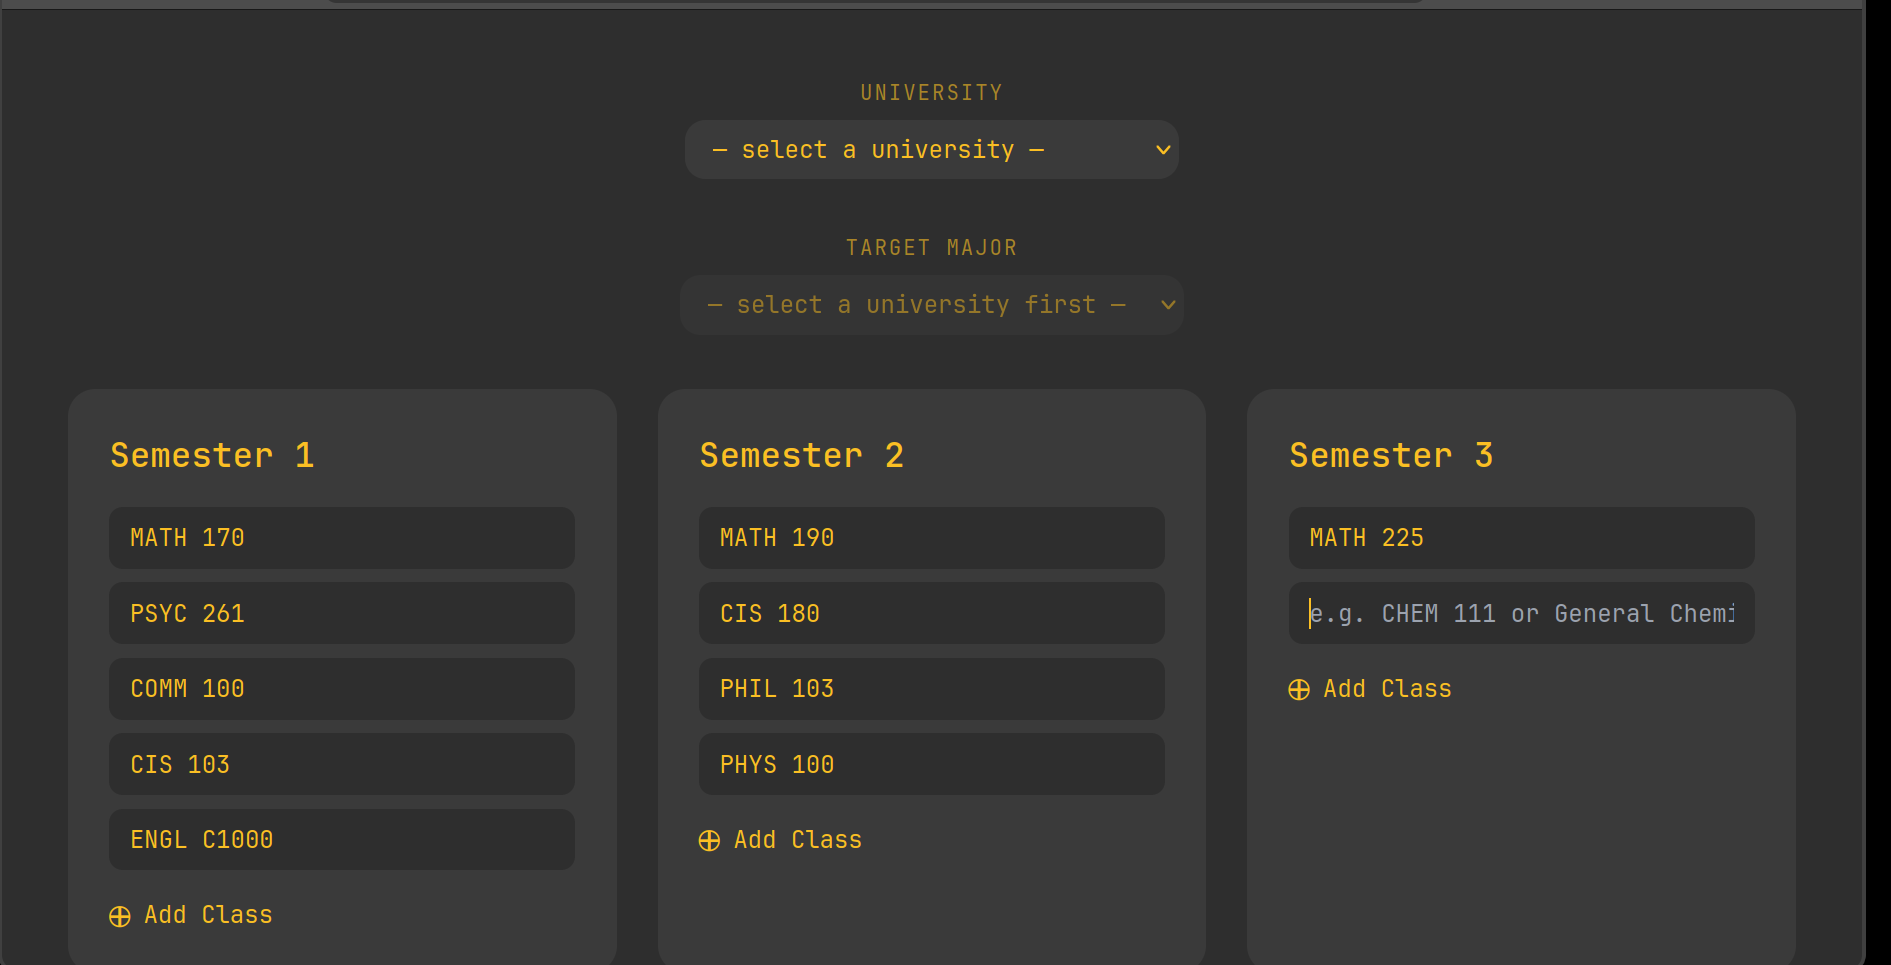
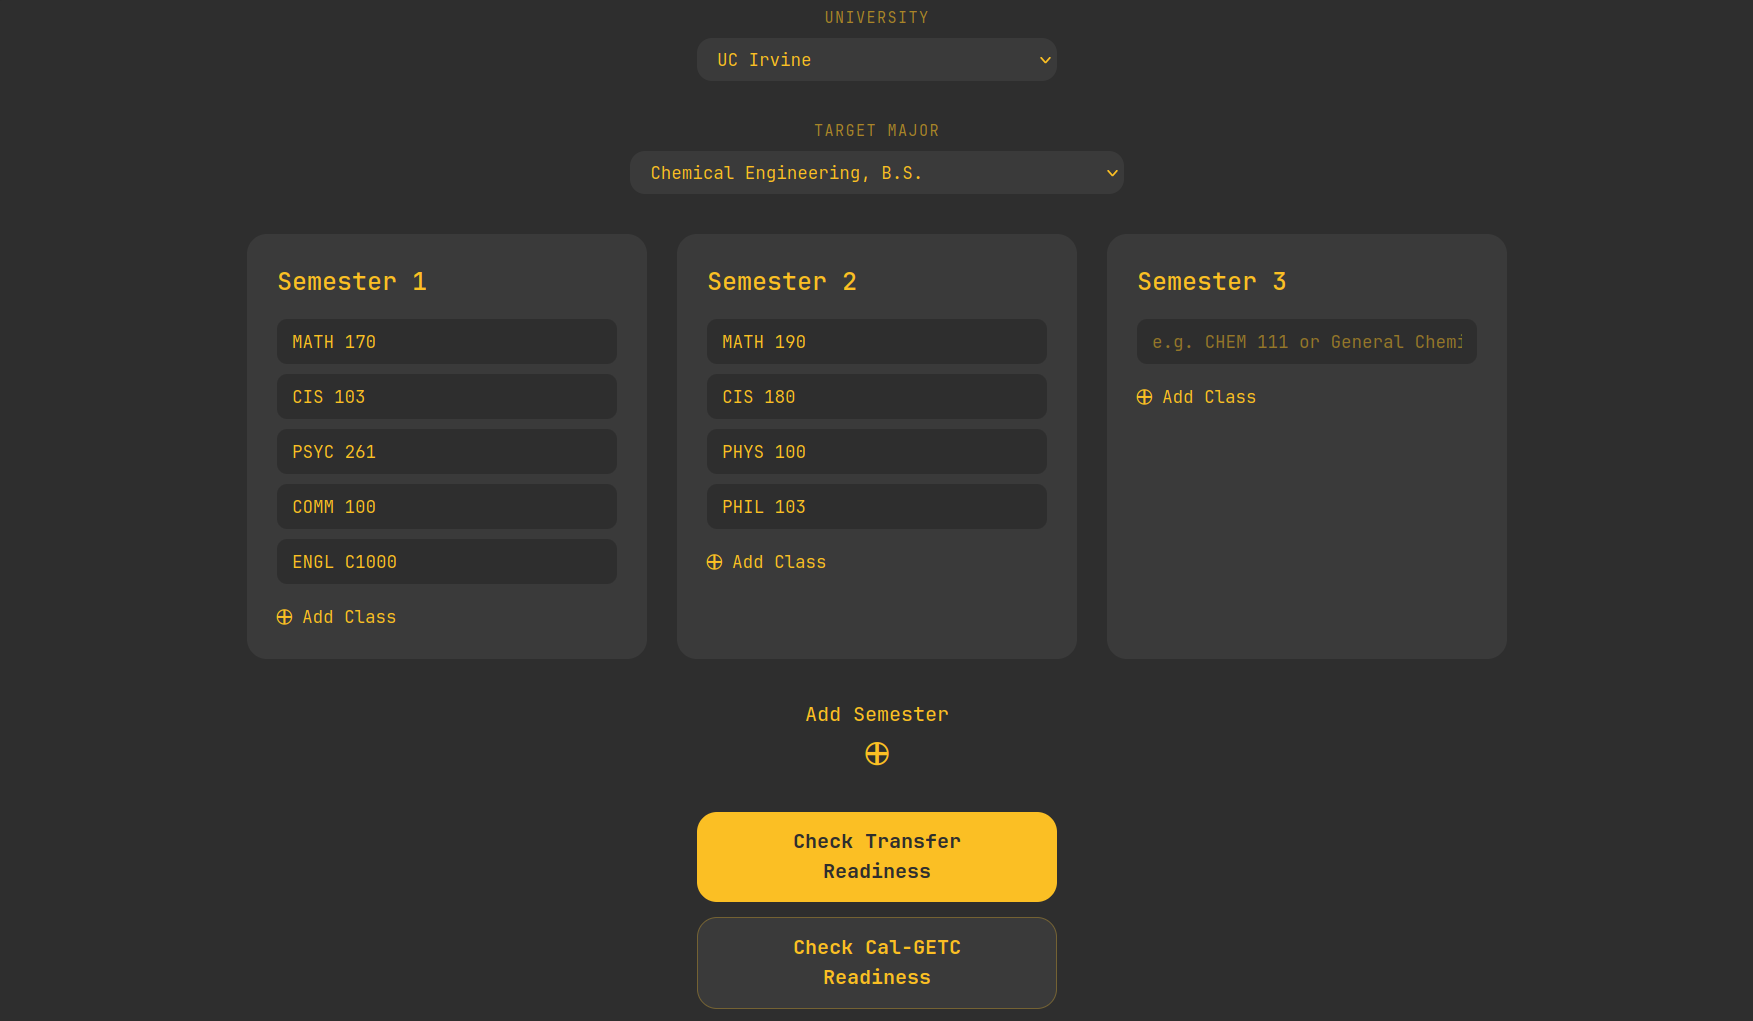
README updated

diff --git a/client/src/data/projects.ts b/client/src/data/projects.ts
@@ -14,18 +14,17 @@ export type Project = {
 
 export const projects: Project[] = [
     {
-        name: "edugotchi",
-        description: "A hackathon-built ESP32-S3 desk pet and educational alarm clock. To dismiss the alarm, you answer AI-generated quiz questions using a dial.",
-        overview: "Built in a weekend at IdeaHacks. A pixel-art creature lives on a small OLED screen and reacts to how you tilt and shake the device. Shake it (or trigger its alarm remotely) and it starts quizzing you, and the only way to make it stop is to answer five questions correctly.",
+        name: "mesa_ready",
+        description: "A transfer readiness checker for Cerritos College students applying to UC engineering and CS majors, built on scraped ASSIST.org articulation data.",
+        overview: "Figuring out which UC transfer requirements you've actually met means digging through ASSIST.org agreements one course at a time. Mesa Ready does it instantly: enter the courses you've taken (or plan to take), pick a target major, and see what's done and what's missing.",
         highlights: [
-            "Answer with a physical dial: turn a potentiometer to highlight an option, hold for 1.5 seconds to lock it in.",
-            "Questions are generated on the fly by a Node server calling the OpenAI API, with a built-in fallback set for when there's no connection.",
-            "The server adapts difficulty over time based on how well you're doing.",
-            "A parent dashboard shows learning streaks, overall accuracy, and per-subject performance.",
+            "Checks your courses against real articulation agreements for UCI, UCLA, UCSD, and Berkeley engineering and CS majors.",
+            "Includes a full Cal-GETC general education breakdown alongside the major requirements.",
+            "A Python scraper pulls the 2025–2026 agreements from ASSIST.org into a single SQLite database.",
         ],
-        tech: ["ESP32-S3", "Arduino C++", "Node.js", "OpenAI API"],
-        image: edugotchi_img,
-        link: "https://github.com/JosephMelesse/edugotchi"
+        tech: ["React 19", "TypeScript", "Tailwind CSS 4", "Express 5", "SQLite", "Python"],
+        image: mesa_ready_img,
+        link: "https://github.com/JosephMelesse/mesa_ready"
     },
     {
         name: "ankivert",
@@ -42,16 +41,17 @@ export const projects: Project[] = [
         link: "https://github.com/JosephMelesse/ankivert"
     },
     {
-        name: "mesa_ready",
-        description: "A transfer readiness checker for Cerritos College students applying to UC engineering and CS majors, built on scraped ASSIST.org articulation data.",
-        overview: "Figuring out which UC transfer requirements you've actually met means digging through ASSIST.org agreements one course at a time. Mesa Ready does it instantly: enter the courses you've taken (or plan to take), pick a target major, and see what's done and what's missing.",
+        name: "edugotchi",
+        description: "A hackathon-built ESP32-S3 desk pet and educational alarm clock. To dismiss the alarm, you answer AI-generated quiz questions using a dial.",
+        overview: "Built in a weekend at IdeaHacks. A pixel-art creature lives on a small OLED screen and reacts to how you tilt and shake the device. Shake it (or trigger its alarm remotely) and it starts quizzing you, and the only way to make it stop is to answer five questions correctly.",
         highlights: [
-            "Checks your courses against real articulation agreements for UCI, UCLA, UCSD, and Berkeley engineering and CS majors.",
-            "Includes a full Cal-GETC general education breakdown alongside the major requirements.",
-            "A Python scraper pulls the 2025–2026 agreements from ASSIST.org into a single SQLite database.",
+            "Answer with a physical dial: turn a potentiometer to highlight an option, hold for 1.5 seconds to lock it in.",
+            "Questions are generated on the fly by a Node server calling the OpenAI API, with a built-in fallback set for when there's no connection.",
+            "The server adapts difficulty over time based on how well you're doing.",
+            "A parent dashboard shows learning streaks, overall accuracy, and per-subject performance.",
         ],
-        tech: ["React 19", "TypeScript", "Express 5", "SQLite", "Python"],
-        image: mesa_ready_img,
-        link: "https://github.com/JosephMelesse/mesa_ready"
+        tech: ["ESP32-S3", "Arduino C++", "Node.js", "OpenAI API"],
+        image: edugotchi_img,
+        link: "https://github.com/JosephMelesse/edugotchi"
     },
 ];

diff --git a/README.md b/README.md
@@ -1,75 +1,35 @@
-# React + TypeScript + Vite
+# Personal Portfolio
 
-This template provides a minimal setup to get React working in Vite with HMR and some ESLint rules.
+My personal portfolio site, live at [josephmelesse.netlify.app](https://josephmelesse.netlify.app).
 
-Currently, two official plugins are available:
+Terminal-themed (gruvbox), with my projects, an about page, and a demo page that fetches a random image and asks an AI to caption it.
 
-- [@vitejs/plugin-react](https://github.com/vitejs/vite-plugin-react/blob/main/packages/plugin-react) uses [Oxc](https://oxc.rs)
-- [@vitejs/plugin-react-swc](https://github.com/vitejs/vite-plugin-react/blob/main/packages/plugin-react-swc) uses [SWC](https://swc.rs/)
+## Stack
 
-## React Compiler
+- **Frontend:** React 19, TypeScript, Vite, Tailwind CSS 4. Deployed on Netlify.
+- **Backend:** Express 5 on Node. Deployed on Render. Talks to the Pexels and OpenAI APIs for the demo page.
 
-The React Compiler is enabled on this template. See [this documentation](https://react.dev/learn/react-compiler) for more information.
+## Running it locally
 
-Note: This will impact Vite dev & build performances.
+Frontend:
 
-## Expanding the ESLint configuration
-
-If you are developing a production application, we recommend updating the configuration to enable type-aware lint rules:
-
-```js
-export default defineConfig([
-  globalIgnores(['dist']),
-  {
-    files: ['**/*.{ts,tsx}'],
-    extends: [
-      // Other configs...
-
-      // Remove tseslint.configs.recommended and replace with this
-      tseslint.configs.recommendedTypeChecked,
-      // Alternatively, use this for stricter rules
-      tseslint.configs.strictTypeChecked,
-      // Optionally, add this for stylistic rules
-      tseslint.configs.stylisticTypeChecked,
-
-      // Other configs...
-    ],
-    languageOptions: {
-      parserOptions: {
-        project: ['./tsconfig.node.json', './tsconfig.app.json'],
-        tsconfigRootDir: import.meta.dirname,
-      },
-      // other options...
-    },
-  },
-])
+```bash
+cd client
+npm install
+npm run dev
 ```
 
-You can also install [eslint-plugin-react-x](https://github.com/Rel1cx/eslint-react/tree/main/packages/plugins/eslint-plugin-react-x) and [eslint-plugin-react-dom](https://github.com/Rel1cx/eslint-react/tree/main/packages/plugins/eslint-plugin-react-dom) for React-specific lint rules:
+Backend:
 
-```js
-// eslint.config.js
-import reactX from 'eslint-plugin-react-x'
-import reactDom from 'eslint-plugin-react-dom'
-
-export default defineConfig([
-  globalIgnores(['dist']),
-  {
-    files: ['**/*.{ts,tsx}'],
-    extends: [
-      // Other configs...
-      // Enable lint rules for React
-      reactX.configs['recommended-typescript'],
-      // Enable lint rules for React DOM
-      reactDom.configs.recommended,
-    ],
-    languageOptions: {
-      parserOptions: {
-        project: ['./tsconfig.node.json', './tsconfig.app.json'],
-        tsconfigRootDir: import.meta.dirname,
-      },
-      // other options...
-    },
-  },
-])
+```bash
+cd server
+npm install
+npm run dev
 ```
+
+You'll need a few environment variables:
+
+- `client/.env`: `VITE_API_URL` (base URL of the backend, e.g. `http://localhost:3000`)
+- `server/.env`: `PEXELS_API_KEY` and `OPENAI_API_KEY`
+
+Node 20+ is required (Vite won't start on anything older).
